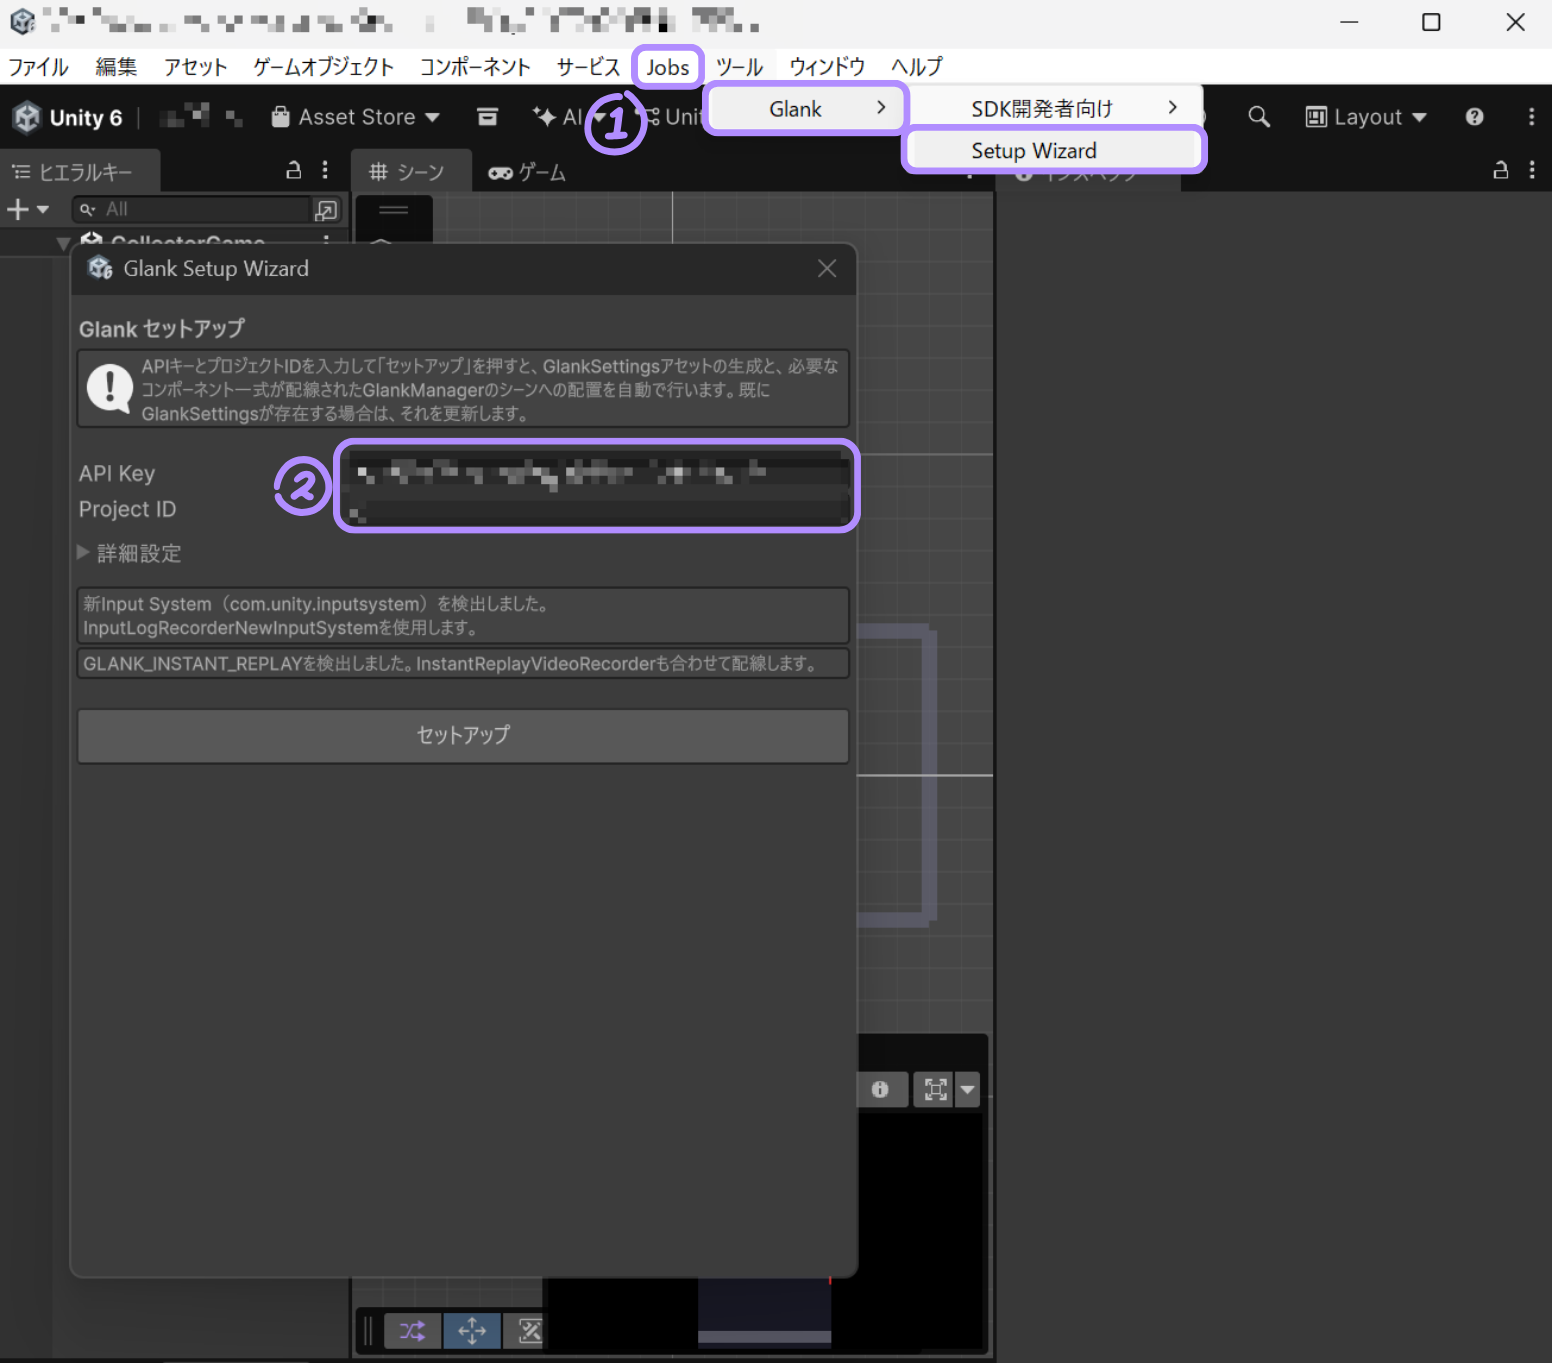
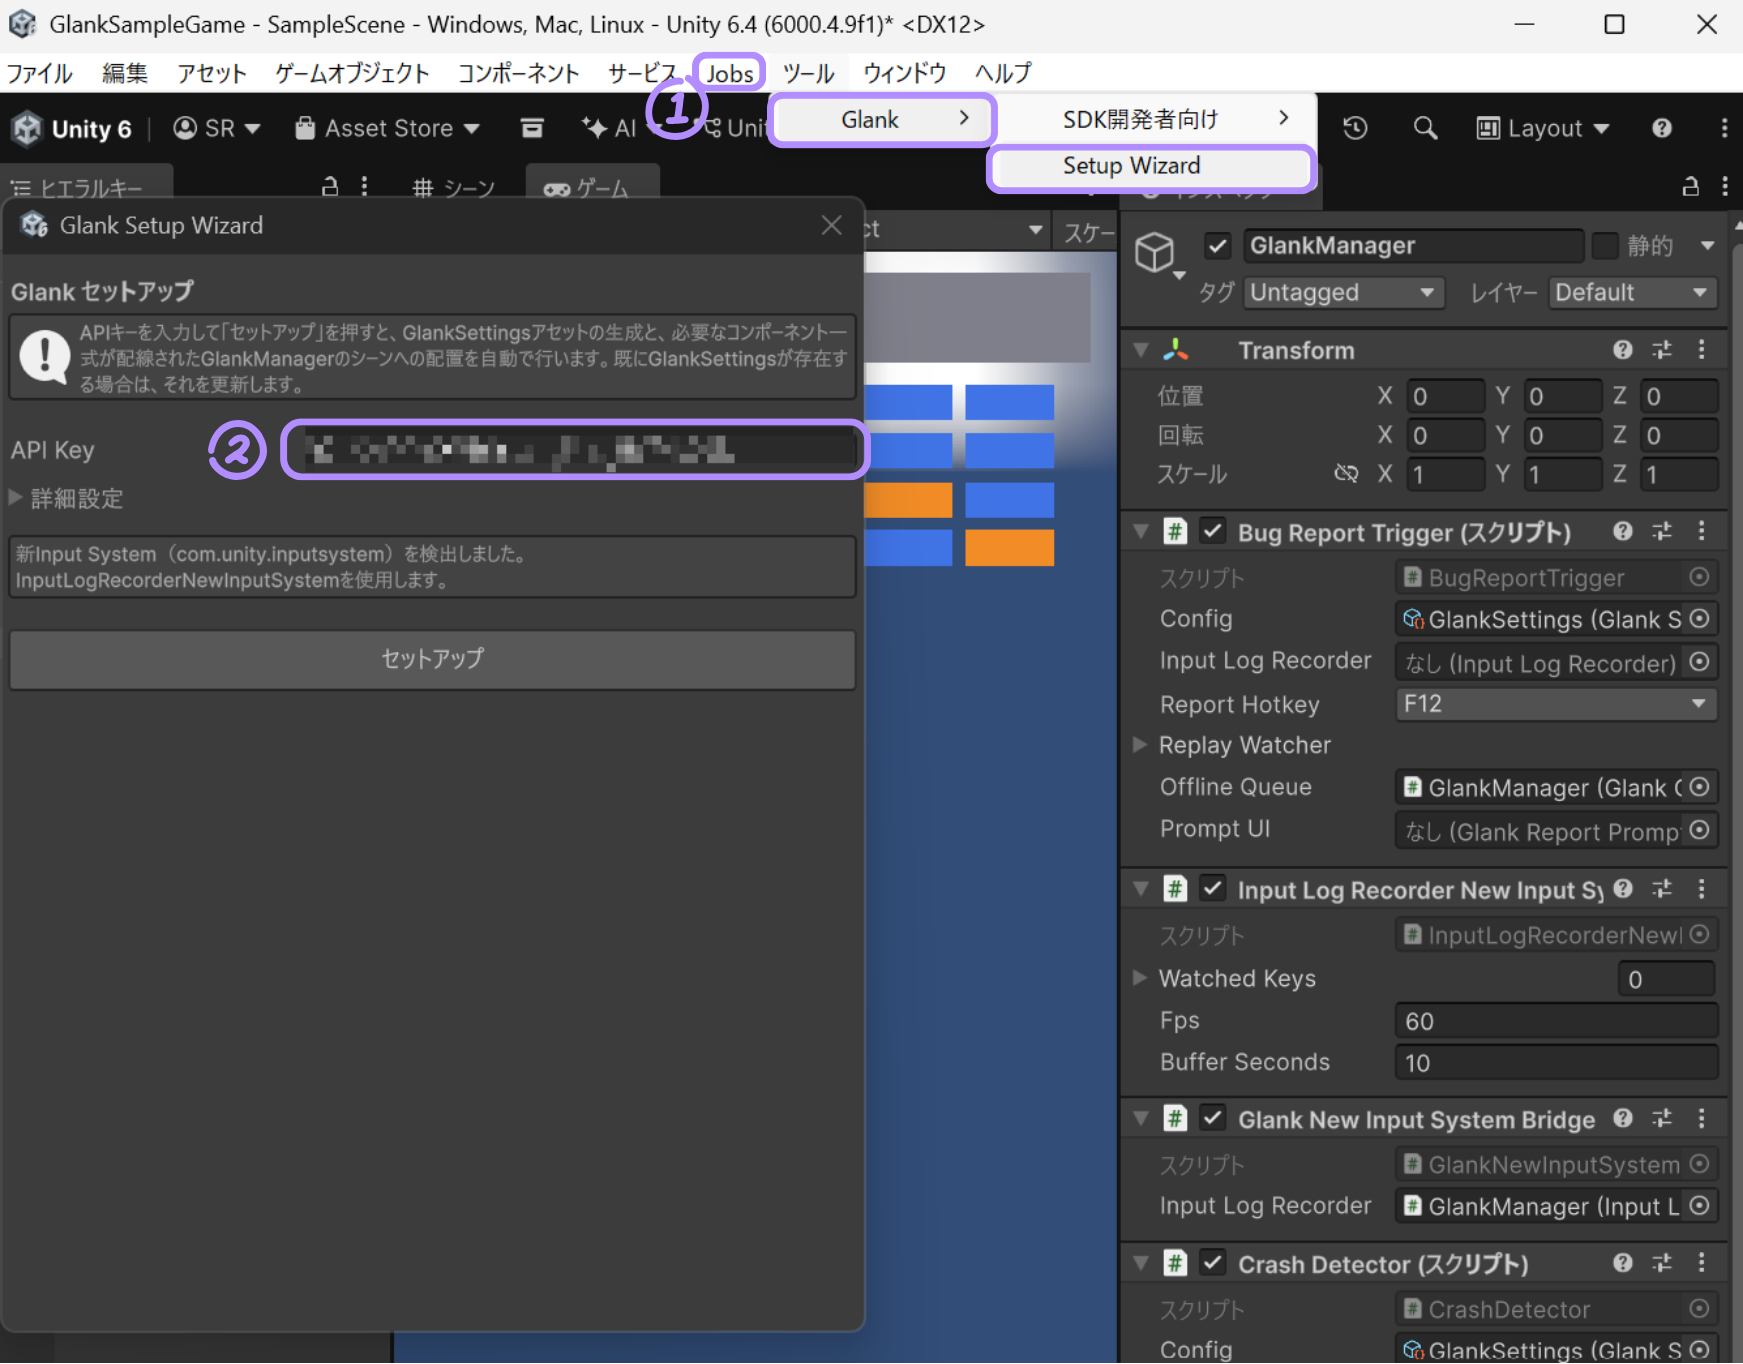
利用規約・プライバシーポリシーからお問い合わせ窓口の記述を削除、ヘルプ画像を更新
未用意の問い合わせ窓口への言及を削除。あわせてSDKinfo_place.png・SetupWizard_setting.pngを更新。

diff --git a/src/pages/PrivacyPage.jsx b/src/pages/PrivacyPage.jsx
@@ -67,16 +67,10 @@ export default function PrivacyPage() {
           <h2>7. 開示・訂正・削除等のご請求</h2>
           <p className="help-lead">
             利用者は、自身に関する個人情報の開示・訂正・削除を求めることができます。
-            プロジェクト・アカウントの削除は、本サービスの管理画面から行うことができるほか、
-            下記のお問い合わせ窓口からもご請求いただけます。
+            プロジェクト・アカウントの削除は、本サービスの管理画面から行うことができます。
           </p>
 
-          <h2>8. お問い合わせ窓口</h2>
-          <p className="help-lead">
-            本ポリシーに関するお問い合わせは、本サービス上のお問い合わせ窓口までご連絡ください。
-          </p>
-
-          <h2>9. 本ポリシーの改定</h2>
+          <h2>8. 本ポリシーの改定</h2>
           <p className="help-lead">
             運営者は、必要に応じて本ポリシーを改定することがあります。改定後の内容は、本ページに
             掲載した時点から効力を生じるものとします。

diff --git a/src/pages/TermsPage.jsx b/src/pages/TermsPage.jsx
@@ -87,11 +87,6 @@ export default function TermsPage() {
             本規約の解釈にあたっては日本法を準拠法とします。本サービスに関して紛争が生じた場合には、
             運営者の所在地を管轄する裁判所を専属的合意管轄とします。
           </p>
-
-          <h2>第10条（お問い合わせ）</h2>
-          <p className="help-lead">
-            本規約に関するお問い合わせは、本サービス上のお問い合わせ窓口までご連絡ください。
-          </p>
         </section>
       </div>
     </LegalPageLayout>
